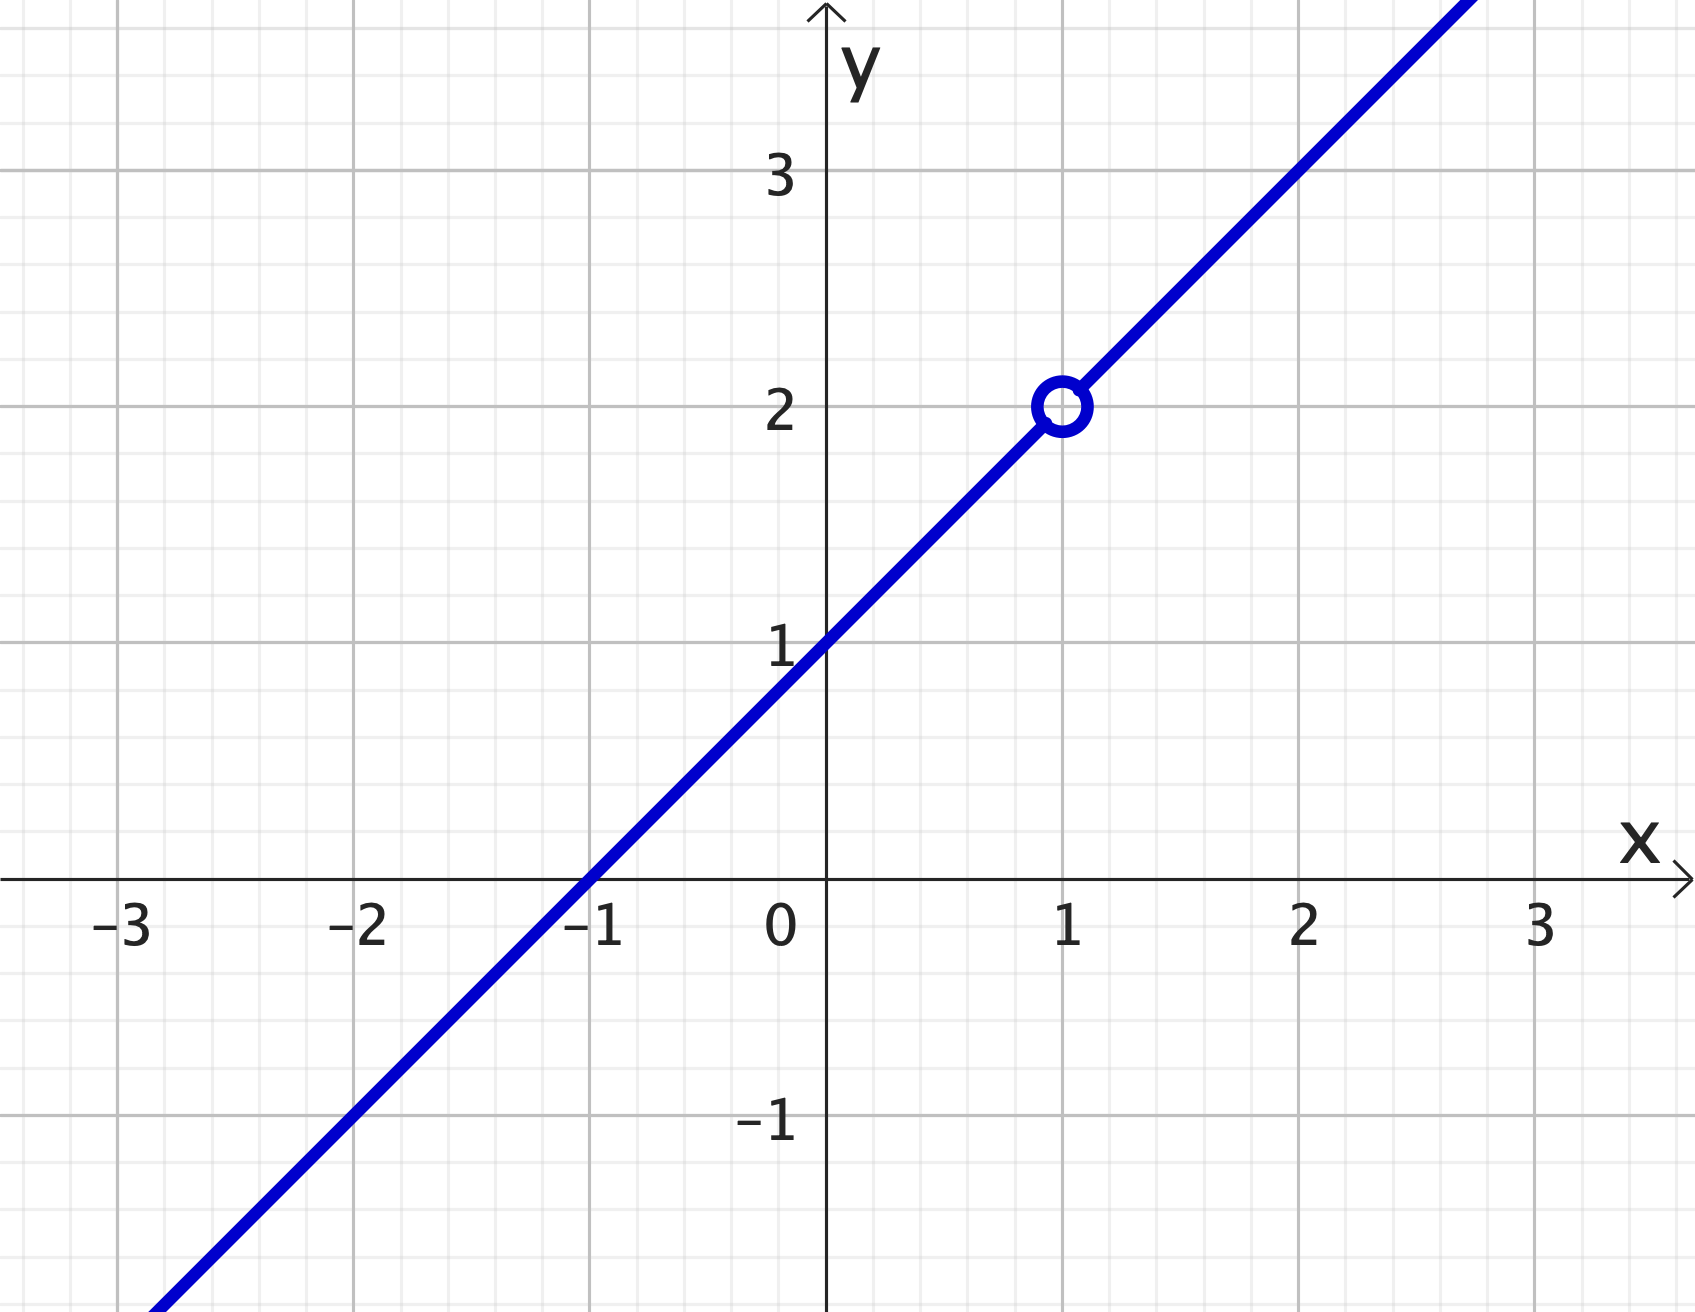
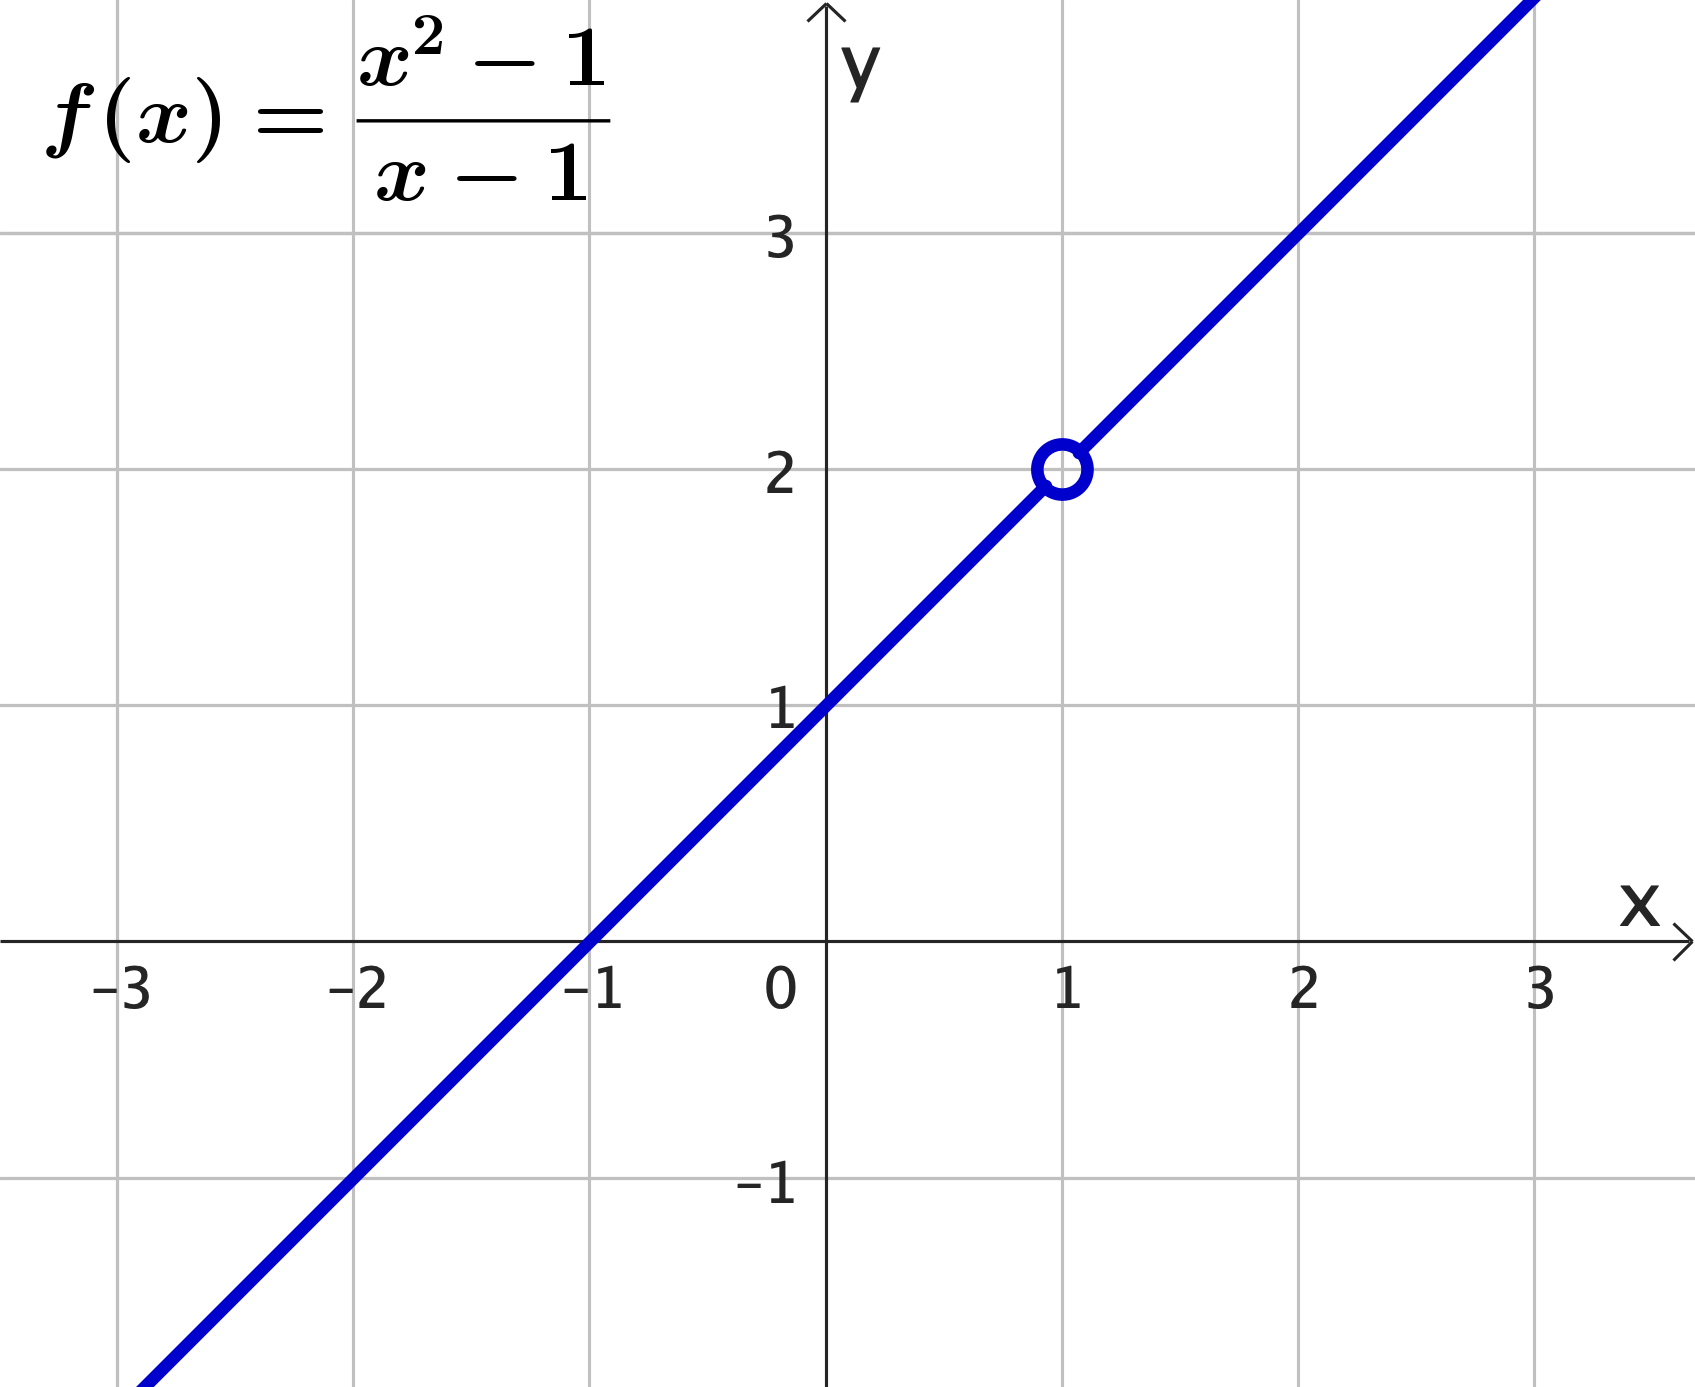
ok

diff --git a/slides/1017scg/week-09.html b/slides/1017scg/week-09.html
@@ -613,44 +613,54 @@
 					<div style="margin-top: -15px;width: 100%;">
 						<table>
 							<tr>
-								<td style="font-size: 90%; text-align: center; width: 50%;">
-									
-									<p>
+								<td style="font-size: 110%; text-align: center; width: 50%;">
+
+									<p class="fragment" data-fragment-index="0">
 										Calculate
 										\[\ds\lim_{x\rightarrow 1}\frac{x^2-1}{x-1}\]
 									</p>
+									<br/>
+									<br/>
+									<br/>
 								</td>
-								<td>
+								<td class="fragment" data-fragment-index="1">
 									<table style="font-size: 63%;border-collapse: collapse;">
 										<tr>
 											<th style="text-align: center;border: 1px solid black;">$x$</th>
-											<th style="text-align: center;border: 1px solid black;">$\left(x^2 - 1\right) /\left(x - 1\right)$</th>
+											<th style="text-align: center;border: 1px solid black;">$\left(x^2 -
+												1\right) /\left(x - 1\right)$</th>
 										</tr>
 										<!-- Left side (approaching 1 from below) -->
 
 										<tr>
 											<td style="text-align: center;border: 1px solid black;">0</td>
-											<td style="text-align: center;border: 1px solid black;" class="fragment" data-fragment-index="0">1</td>
+											<td style="text-align: center;border: 1px solid black;" class="fragment"
+												data-fragment-index="2">1</td>
 										</tr>
 										<tr>
 											<td style="text-align: center;border: 1px solid black;">0.5</td>
-											<td style="text-align: center;border: 1px solid black;" class="fragment" data-fragment-index="1">1.5</td>
+											<td style="text-align: center;border: 1px solid black;" class="fragment"
+												data-fragment-index="3">1.5</td>
 										</tr>
 										<tr>
 											<td style="text-align: center;border: 1px solid black;">0.9</td>
-											<td style="text-align: center;border: 1px solid black;" class="fragment" data-fragment-index="2">1.9</td>
+											<td style="text-align: center;border: 1px solid black;" class="fragment"
+												data-fragment-index="4">1.9</td>
 										</tr>
 										<tr>
 											<td style="text-align: center;border: 1px solid black;">0.95</td>
-											<td style="text-align: center;border: 1px solid black;" class="fragment" data-fragment-index="3">1.95</td>
+											<td style="text-align: center;border: 1px solid black;" class="fragment"
+												data-fragment-index="5">1.95</td>
 										</tr>
 										<tr>
 											<td style="text-align: center;border: 1px solid black;">0.99</td>
-											<td style="text-align: center;border: 1px solid black;" class="fragment" data-fragment-index="4">1.99</td>
+											<td style="text-align: center;border: 1px solid black;" class="fragment"
+												data-fragment-index="5">1.99</td>
 										</tr>
 										<tr>
 											<td style="text-align: center;border: 1px solid black;">0.999</td>
-											<td style="text-align: center;border: 1px solid black;" class="fragment" data-fragment-index="5">1.999</td>
+											<td style="text-align: center;border: 1px solid black;" class="fragment"
+												data-fragment-index="5">1.999</td>
 										</tr>
 										<tr>
 											<td style="text-align: center;border: 1px solid black;">1</td>
@@ -660,23 +670,28 @@
 										<!-- Right side (approaching 1 from above) -->
 										<tr>
 											<td style="text-align: center;border: 1px solid black;">1.001</td>
-											<td style="text-align: center;border: 1px solid black;" class="fragment" data-fragment-index="10">2.001</td>
+											<td style="text-align: center;border: 1px solid black;" class="fragment"
+												data-fragment-index="9">2.001</td>
 										</tr>
 										<tr>
 											<td style="text-align: center;border: 1px solid black;">1.01</td>
-											<td style="text-align: center;border: 1px solid black;" class="fragment" data-fragment-index="9">2.01</td>
+											<td style="text-align: center;border: 1px solid black;" class="fragment"
+												data-fragment-index="9">2.01</td>
 										</tr>
 										<tr>
 											<td style="text-align: center;border: 1px solid black;">1.05</td>
-											<td style="text-align: center;border: 1px solid black;" class="fragment" data-fragment-index="8">2.05</td>
+											<td style="text-align: center;border: 1px solid black;" class="fragment"
+												data-fragment-index="9">2.05</td>
 										</tr>
 										<tr>
 											<td style="text-align: center;border: 1px solid black;">1.1</td>
-											<td style="text-align: center;border: 1px solid black;" class="fragment" data-fragment-index="7">2.1</td>
+											<td style="text-align: center;border: 1px solid black;" class="fragment"
+												data-fragment-index="7">2.1</td>
 										</tr>
 										<tr>
 											<td style="text-align: center;border: 1px solid black;">1.5</td>
-											<td style="text-align: center;border: 1px solid black;" class="fragment" data-fragment-index="6">2.5</td>
+											<td style="text-align: center;border: 1px solid black;" class="fragment"
+												data-fragment-index="6">2.5</td>
 										</tr>
 
 									</table>
@@ -691,12 +706,98 @@
 					<div style="margin-top: -15px;width: 100%;">
 						<table>
 							<tr>
-								<td style="font-size: 90%; text-align: center; width: 30%;">
-									
+								<td style="font-size: 90%; text-align: center; width: 70%;">
+
 									<p>
-										Calculate
-										\[\ds\lim_{x\rightarrow 1}\frac{x^2-1}{x-1}\]
+										<img style="width: 100%;" src="images/week-09/limits-rational-func.png">
 									</p>
+								</td>
+								<td style="width: 30%;">
+									<table style="font-size: 63%;border-collapse: collapse;">
+										<tr>
+											<th style="text-align: center;border: 1px solid black;">$x$</th>
+											<th style="text-align: center;border: 1px solid black;">$f(x)$</th>
+										</tr>
+										<!-- Left side (approaching 1 from below) -->
+
+										<tr>
+											<td style="text-align: center;border: 1px solid black;">0</td>
+											<td style="text-align: center;border: 1px solid black;">1</td>
+										</tr>
+										<tr>
+											<td style="text-align: center;border: 1px solid black;">0.5</td>
+											<td style="text-align: center;border: 1px solid black;">1.5</td>
+										</tr>
+										<tr>
+											<td style="text-align: center;border: 1px solid black;">0.9</td>
+											<td style="text-align: center;border: 1px solid black;">1.9</td>
+										</tr>
+										<tr>
+											<td style="text-align: center;border: 1px solid black;">0.95</td>
+											<td style="text-align: center;border: 1px solid black;">1.95</td>
+										</tr>
+										<tr>
+											<td style="text-align: center;border: 1px solid black;">0.99</td>
+											<td style="text-align: center;border: 1px solid black;">1.99</td>
+										</tr>
+										<tr>
+											<td style="text-align: center;border: 1px solid black;">0.999</td>
+											<td style="text-align: center;border: 1px solid black;">1.999</td>
+										</tr>
+										<tr>
+											<td style="text-align: center;border: 1px solid black;">1</td>
+											<td style="text-align: center;border: 1px solid black;"><b>???</b></td>
+										</tr>
+
+										<!-- Right side (approaching 1 from above) -->
+										<tr>
+											<td style="text-align: center;border: 1px solid black;">1.001</td>
+											<td style="text-align: center;border: 1px solid black;">2.001</td>
+										</tr>
+										<tr>
+											<td style="text-align: center;border: 1px solid black;">1.01</td>
+											<td style="text-align: center;border: 1px solid black;">2.01</td>
+										</tr>
+										<tr>
+											<td style="text-align: center;border: 1px solid black;">1.05</td>
+											<td style="text-align: center;border: 1px solid black;">2.05</td>
+										</tr>
+										<tr>
+											<td style="text-align: center;border: 1px solid black;">1.1</td>
+											<td style="text-align: center;border: 1px solid black;">2.1</td>
+										</tr>
+										<tr>
+											<td style="text-align: center;border: 1px solid black;">1.5</td>
+											<td style="text-align: center;border: 1px solid black;" >2.5</td>
+										</tr>
+
+									</table>
+								</td>
+							</tr>
+						</table>
+					</div>
+					<br />
+				</section>
+
+				<section data-auto-animate>
+					<h4>Finding the limit analytically 🤓</h4>
+					<div style="margin-top: -15px;width: 100%;">
+						<table>
+							<tr>
+								<td style="font-size: 85%; text-align: center; width: 30%;">
+
+									<p>Our <b>goal</b> is to prove that:</p>
+									<p>
+										\[\ds\lim_{x\rightarrow 1}\frac{x^2-1}{x-1}=1\]
+									</p>
+
+									<picture>
+										<source srcset="https://fonts.gstatic.com/s/e/notoemoji/latest/1f601/512.webp"
+											type="image/webp">
+										<img src="https://fonts.gstatic.com/s/e/notoemoji/latest/1f601/512.gif" alt="😁"
+											width="64" height="64">
+									</picture>
+
 								</td>
 								<td style="width: 70%;">
 									<img style="width: 100%;" src="images/week-09/limits-rational-func.png">
@@ -704,20 +805,20 @@
 							</tr>
 						</table>
 					</div>
-					<br/>
+					<br />
 				</section>
 
 				<section>
 					<h4>Examples</h4>
 					<div class="left-txt">
 						<p>
-						<b>1. </b> $\,\ds \lim_{x\ra 1}4x+3$
+							<b>1. </b> $\,\ds \lim_{x\ra 1}4x+3$
 						</p>
 
 					</div>
-					<br/>
-					<br/>
-					<br/>
+					<br />
+					<br />
+					<br />
 					<div class="left-txt">
 						<p>
 							<b>2. </b> $\,\ds \lim_{x\ra 1}5x^2$
@@ -738,15 +839,15 @@
 						</p>
 
 					</div>
-					<br/>
-					<br/>
-					<br/>
-					
-					<br/>
-					<br/>
-					<br/>
-					<br/>
-					<br/>
+					<br />
+					<br />
+					<br />
+
+					<br />
+					<br />
+					<br />
+					<br />
+					<br />
 				</section>
 				<section>
 					<h4>Example 4</h4>
@@ -756,15 +857,15 @@
 						</p>
 
 					</div>
-					<br/>
-					<br/>
-					<br/>
-					
-					<br/>
-					<br/>
-					<br/>
-					<br/>
-					<br/>
+					<br />
+					<br />
+					<br />
+
+					<br />
+					<br />
+					<br />
+					<br />
+					<br />
 				</section>
 			</section>
 

diff --git a/slides/1017scg/index.html b/slides/1017scg/index.html
@@ -74,7 +74,7 @@
 							<td>
 								<a href="week-07.html" target="_blank">Week 7</a><br />
 								<a href="pond.html" target="_blank">Week 8 ❌</a><br />
-								<a href="week-09.html" target="_blank">Week 9 ❌</a><br />
+								<a href="week-09.html" target="_blank">Week 9</a><br />
 								<a href="pond.html" target="_blank">Week 10 ❌</a><br />
 								<a href="music.html" target="_blank">Week 11 ❌</a><br />
 								<a href="monkey.html" target="_blank">Week 12 ❌</a><br />
